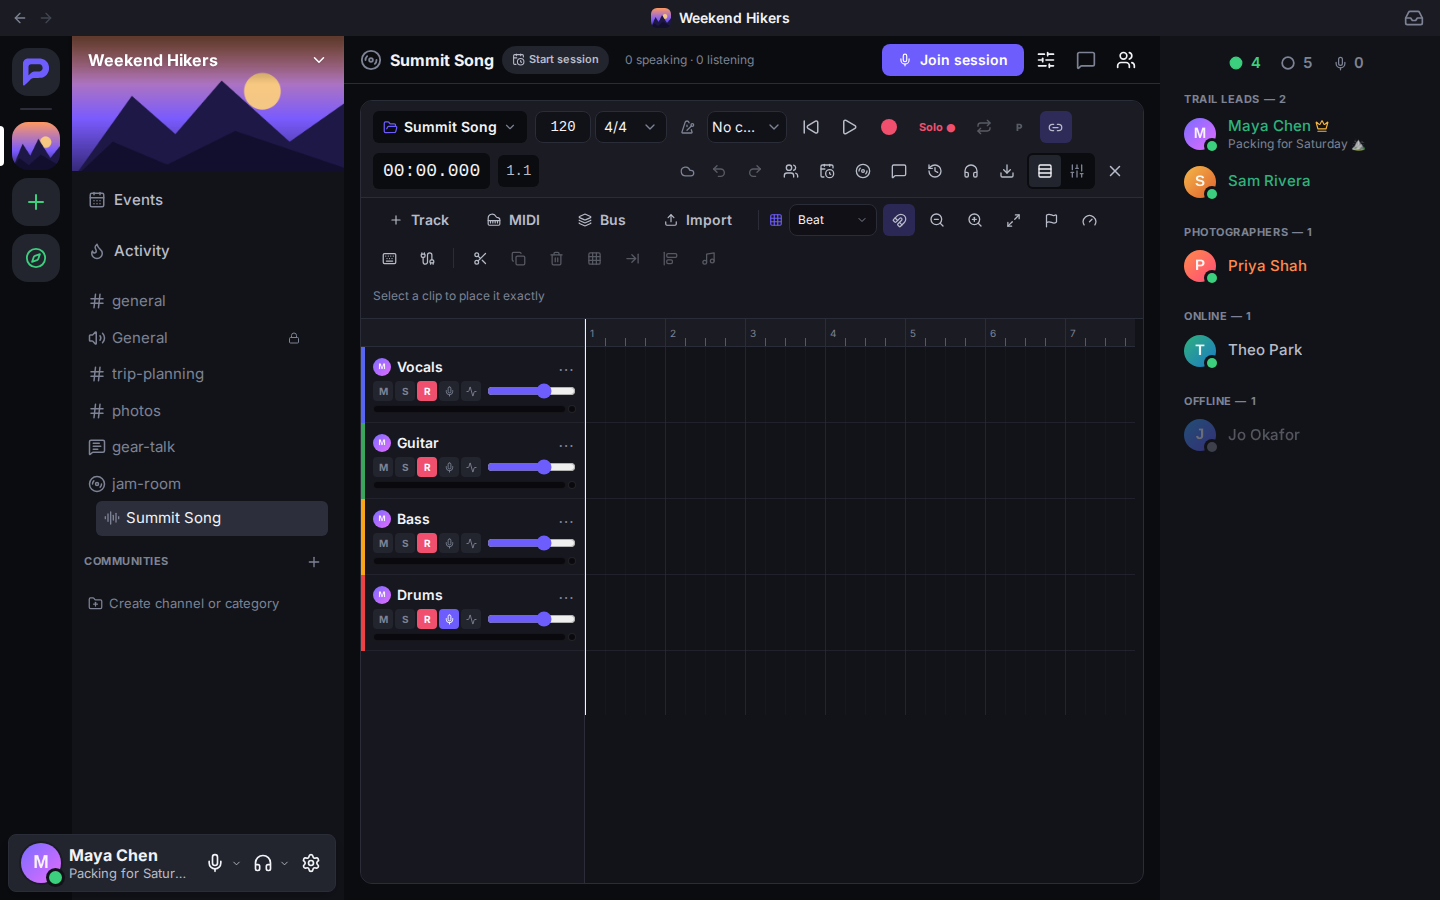
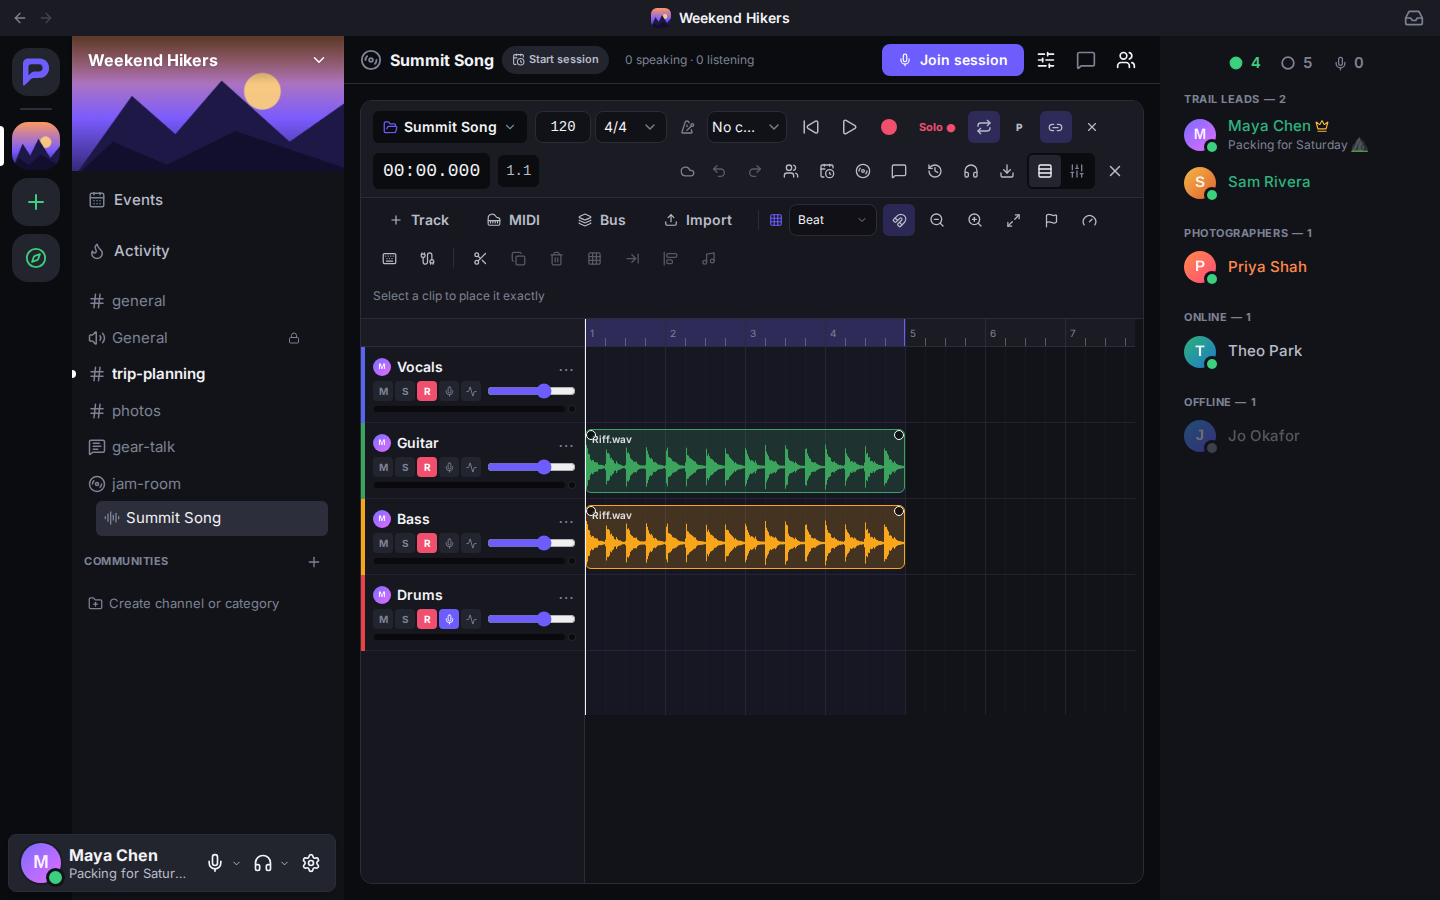
docs(guide): effect window examples and screenshot
Studio guide gets worked examples for each kind of effect window and a
screenshot of three windows open while a song plays. The guide shots now
give the sample song a riff with effects on two tracks.

diff --git a/website/guide/studio/index.html b/website/guide/studio/index.html
@@ -110,12 +110,22 @@ footer .wrap { display:flex; flex-wrap:wrap; gap:1rem; } footer a { color:var(--
 <p>In the <strong>mixer</strong>, every track has volume, pan, solo, mute, effects and sends.</p>
 <h2 id="effects"><a class="anchor" href="#effects" aria-hidden="true">#</a>Effects</h2>
 <p>Each track, bus and the master has an effects rack: EQ, filter, compressor, gate, limiter, reverb, delay, drive and chorus. Click <strong>+ Effect</strong> to add one. Effects play top to bottom; hover one to move it or remove it.</p>
+<figure><img class="shot" src="/guide/shots/studio-effects.png" alt="Effect windows for a guitar's EQ and compressor and a bass filter, open side by side while the song plays" loading="lazy"><figcaption>Effect windows for a guitar's EQ and compressor and a bass filter, open side by side while the song plays</figcaption></figure>
 <p>Click an effect to open its window. You can open as many windows as you like and drag them anywhere; click a window to bring it to the front. Each window shows what the effect does:</p>
 <ul><li><strong>EQ</strong> and <strong>filter</strong>: the frequency curve over the sound's spectrum. Drag the dots on the curve to shape it. On the filter, drag up or down for more or less resonance, or use the mouse wheel.</li><li><strong>Compressor</strong>, <strong>gate</strong> and <strong>limiter</strong>: how loud goes in versus how loud comes out, a dot showing where your sound is now, the last few seconds of level, and how much is being turned down.</li><li><strong>Reverb</strong>: the shape of the tail. <strong>Delay</strong>: each echo fading away. <strong>Drive</strong>: the distortion curve, with the sound before and after. <strong>Chorus</strong>: the sweep.</li></ul>
 <p>While the song plays, the views and the <strong>In</strong> and <strong>Out</strong> meters move with the sound.</p>
 <p>To change a setting:</p>
 <ul><li>Drag a knob up or down. Hold <kbd>Shift</kbd> for fine control.</li><li>Use the mouse wheel or the arrow keys.</li><li>Type a value under the knob, such as <code>2.5k</code> or <code>25%</code>.</li><li>Double-click a knob to put it back to its default.</li></ul>
 <p>The power button in the window's title bar turns the effect off and on. The arrow resets all its settings.</p>
+<aside class="callout tip"><b>Tip</b> Open the same effect on two tracks side by side, like the guitar's EQ and the bass's filter, and play the song. You can see where each one sits and make room for the other.</aside>
+<h3 id="examples"><a class="anchor" href="#examples" aria-hidden="true">#</a>Examples</h3>
+<p>These start from an effect's defaults. Play the song while you work, ideally with <strong>Loop</strong> on, so the windows show your sound.</p>
+<p><strong>Clean up the low end of a guitar or vocal.</strong> Add an <strong>EQ</strong>. Drag the <strong>C</strong> dot on the curve to the right until <strong>Low cut</strong> reads about <code>90 Hz</code>; the rumble below it goes, and the spectrum behind the curve shows what you took away. Drag the <strong>M</strong> dot to about <code>2.5k</code> and up a few dB to bring the part forward.</p>
+<p><strong>Even out a vocal.</strong> Add a <strong>Compressor</strong>. Set <strong>Ratio</strong> to <code>4:1</code>, then turn <strong>Threshold</strong> down while you watch the dot on the curve: when the loud words cross the bend, the <strong>GR</strong> meter shows how much they are turned down. Aim for about 3 to 6 dB on the loudest words, then raise <strong>Makeup</strong> by about the same amount so the part is as loud as before.</p>
+<p><strong>Sweep a filter.</strong> Add a <strong>Filter</strong> to a synth or drum track and pick <strong>Low-pass</strong>. Drag the dot on the curve slowly from right to left while the song plays: the sound gets darker as the cutoff moves down. Drag the dot up or down, or scroll the mouse wheel over it, to change <strong>Resonance</strong>: more gives a sharper, ringing peak at the cutoff. To make the sweep part of the song, record it with an <a href="/guide/studio/#arranging-and-editing">automation lane</a>.</p>
+<p><strong>Stop a noisy track hissing between notes.</strong> Add a <strong>Gate</strong> first in the rack. Watch the lamp: it says <strong>OPEN</strong> while the part plays and <strong>CLOSED</strong> in the gaps. Raise <strong>Threshold</strong> until it closes in the gaps but stays open on the quietest notes you want to keep.</p>
+<p><strong>Put a part in a room.</strong> Add a <strong>Reverb</strong> and set <strong>Mix</strong> to about <code>20%</code>. A longer <strong>Decay</strong> gives a bigger space; a lower <strong>Tone</strong> makes the tail darker, so it sits behind the dry sound.</p>
+<p><strong>Catch peaks on the whole mix.</strong> Add a <strong>Limiter</strong> to the <strong>Master</strong> and leave <strong>Ceiling</strong> at <code>-1 dB</code>. The window shows how often the loudest moments are held down; if it is working all the time, turn the tracks down instead.</p>
 <h2 id="working-as-a-band"><a class="anchor" href="#working-as-a-band" aria-hidden="true">#</a>Working as a band</h2>
 <ul><li><strong>Band</strong>: everyone is an <strong>Engineer</strong> (can change anything) or an <strong>Artist</strong> (records their own parts). <strong>Protect this track</strong> stops others editing your part.</li><li><strong>Sessions</strong>: an engineer clicks <strong>Start session</strong> to work live together. Everyone hears what anyone plays.</li><li><strong>Takes</strong>: every recording is kept. Pick the best one with <strong>Use take</strong>.</li><li><strong>Comments</strong>: leave notes at a point in the song, like &quot;drums drag here&quot;, and <strong>Resolve</strong> them when done.</li><li><strong>Versions</strong>: <strong>Save version</strong> before big changes, and <strong>Restore</strong> if you don't like where it went.</li></ul>
 <p>Listeners who aren't in the band can still play the song, follow along and comment.</p>

diff --git a/docs/guide/studio.md b/docs/guide/studio.md
@@ -51,6 +51,8 @@ In the **mixer**, every track has volume, pan, solo, mute, effects and sends.
 
 Each track, bus and the master has an effects rack: EQ, filter, compressor, gate, limiter, reverb, delay, drive and chorus. Click **+ Effect** to add one. Effects play top to bottom; hover one to move it or remove it.
 
+![Effect windows for a guitar's EQ and compressor and a bass filter, open side by side while the song plays](shot:studio-effects)
+
 Click an effect to open its window. You can open as many windows as you like and drag them anywhere; click a window to bring it to the front. Each window shows what the effect does:
 
 - **EQ** and **filter**: the frequency curve over the sound's spectrum. Drag the dots on the curve to shape it. On the filter, drag up or down for more or less resonance, or use the mouse wheel.
@@ -67,6 +69,24 @@ To change a setting:
 - Double-click a knob to put it back to its default.
 
 The power button in the window's title bar turns the effect off and on. The arrow resets all its settings.
+
+> Tip: Open the same effect on two tracks side by side, like the guitar's EQ and the bass's filter, and play the song. You can see where each one sits and make room for the other.
+
+### Examples
+
+These start from an effect's defaults. Play the song while you work, ideally with **Loop** on, so the windows show your sound.
+
+**Clean up the low end of a guitar or vocal.** Add an **EQ**. Drag the **C** dot on the curve to the right until **Low cut** reads about `90 Hz`; the rumble below it goes, and the spectrum behind the curve shows what you took away. Drag the **M** dot to about `2.5k` and up a few dB to bring the part forward.
+
+**Even out a vocal.** Add a **Compressor**. Set **Ratio** to `4:1`, then turn **Threshold** down while you watch the dot on the curve: when the loud words cross the bend, the **GR** meter shows how much they are turned down. Aim for about 3 to 6 dB on the loudest words, then raise **Makeup** by about the same amount so the part is as loud as before.
+
+**Sweep a filter.** Add a **Filter** to a synth or drum track and pick **Low-pass**. Drag the dot on the curve slowly from right to left while the song plays: the sound gets darker as the cutoff moves down. Drag the dot up or down, or scroll the mouse wheel over it, to change **Resonance**: more gives a sharper, ringing peak at the cutoff. To make the sweep part of the song, record it with an [automation lane](#arranging-and-editing).
+
+**Stop a noisy track hissing between notes.** Add a **Gate** first in the rack. Watch the lamp: it says **OPEN** while the part plays and **CLOSED** in the gaps. Raise **Threshold** until it closes in the gaps but stays open on the quietest notes you want to keep.
+
+**Put a part in a room.** Add a **Reverb** and set **Mix** to about `20%`. A longer **Decay** gives a bigger space; a lower **Tone** makes the tail darker, so it sits behind the dry sound.
+
+**Catch peaks on the whole mix.** Add a **Limiter** to the **Master** and leave **Ceiling** at `-1 dB`. The window shows how often the loudest moments are held down; if it is working all the time, turn the tracks down instead.
 
 ## Working as a band
 
